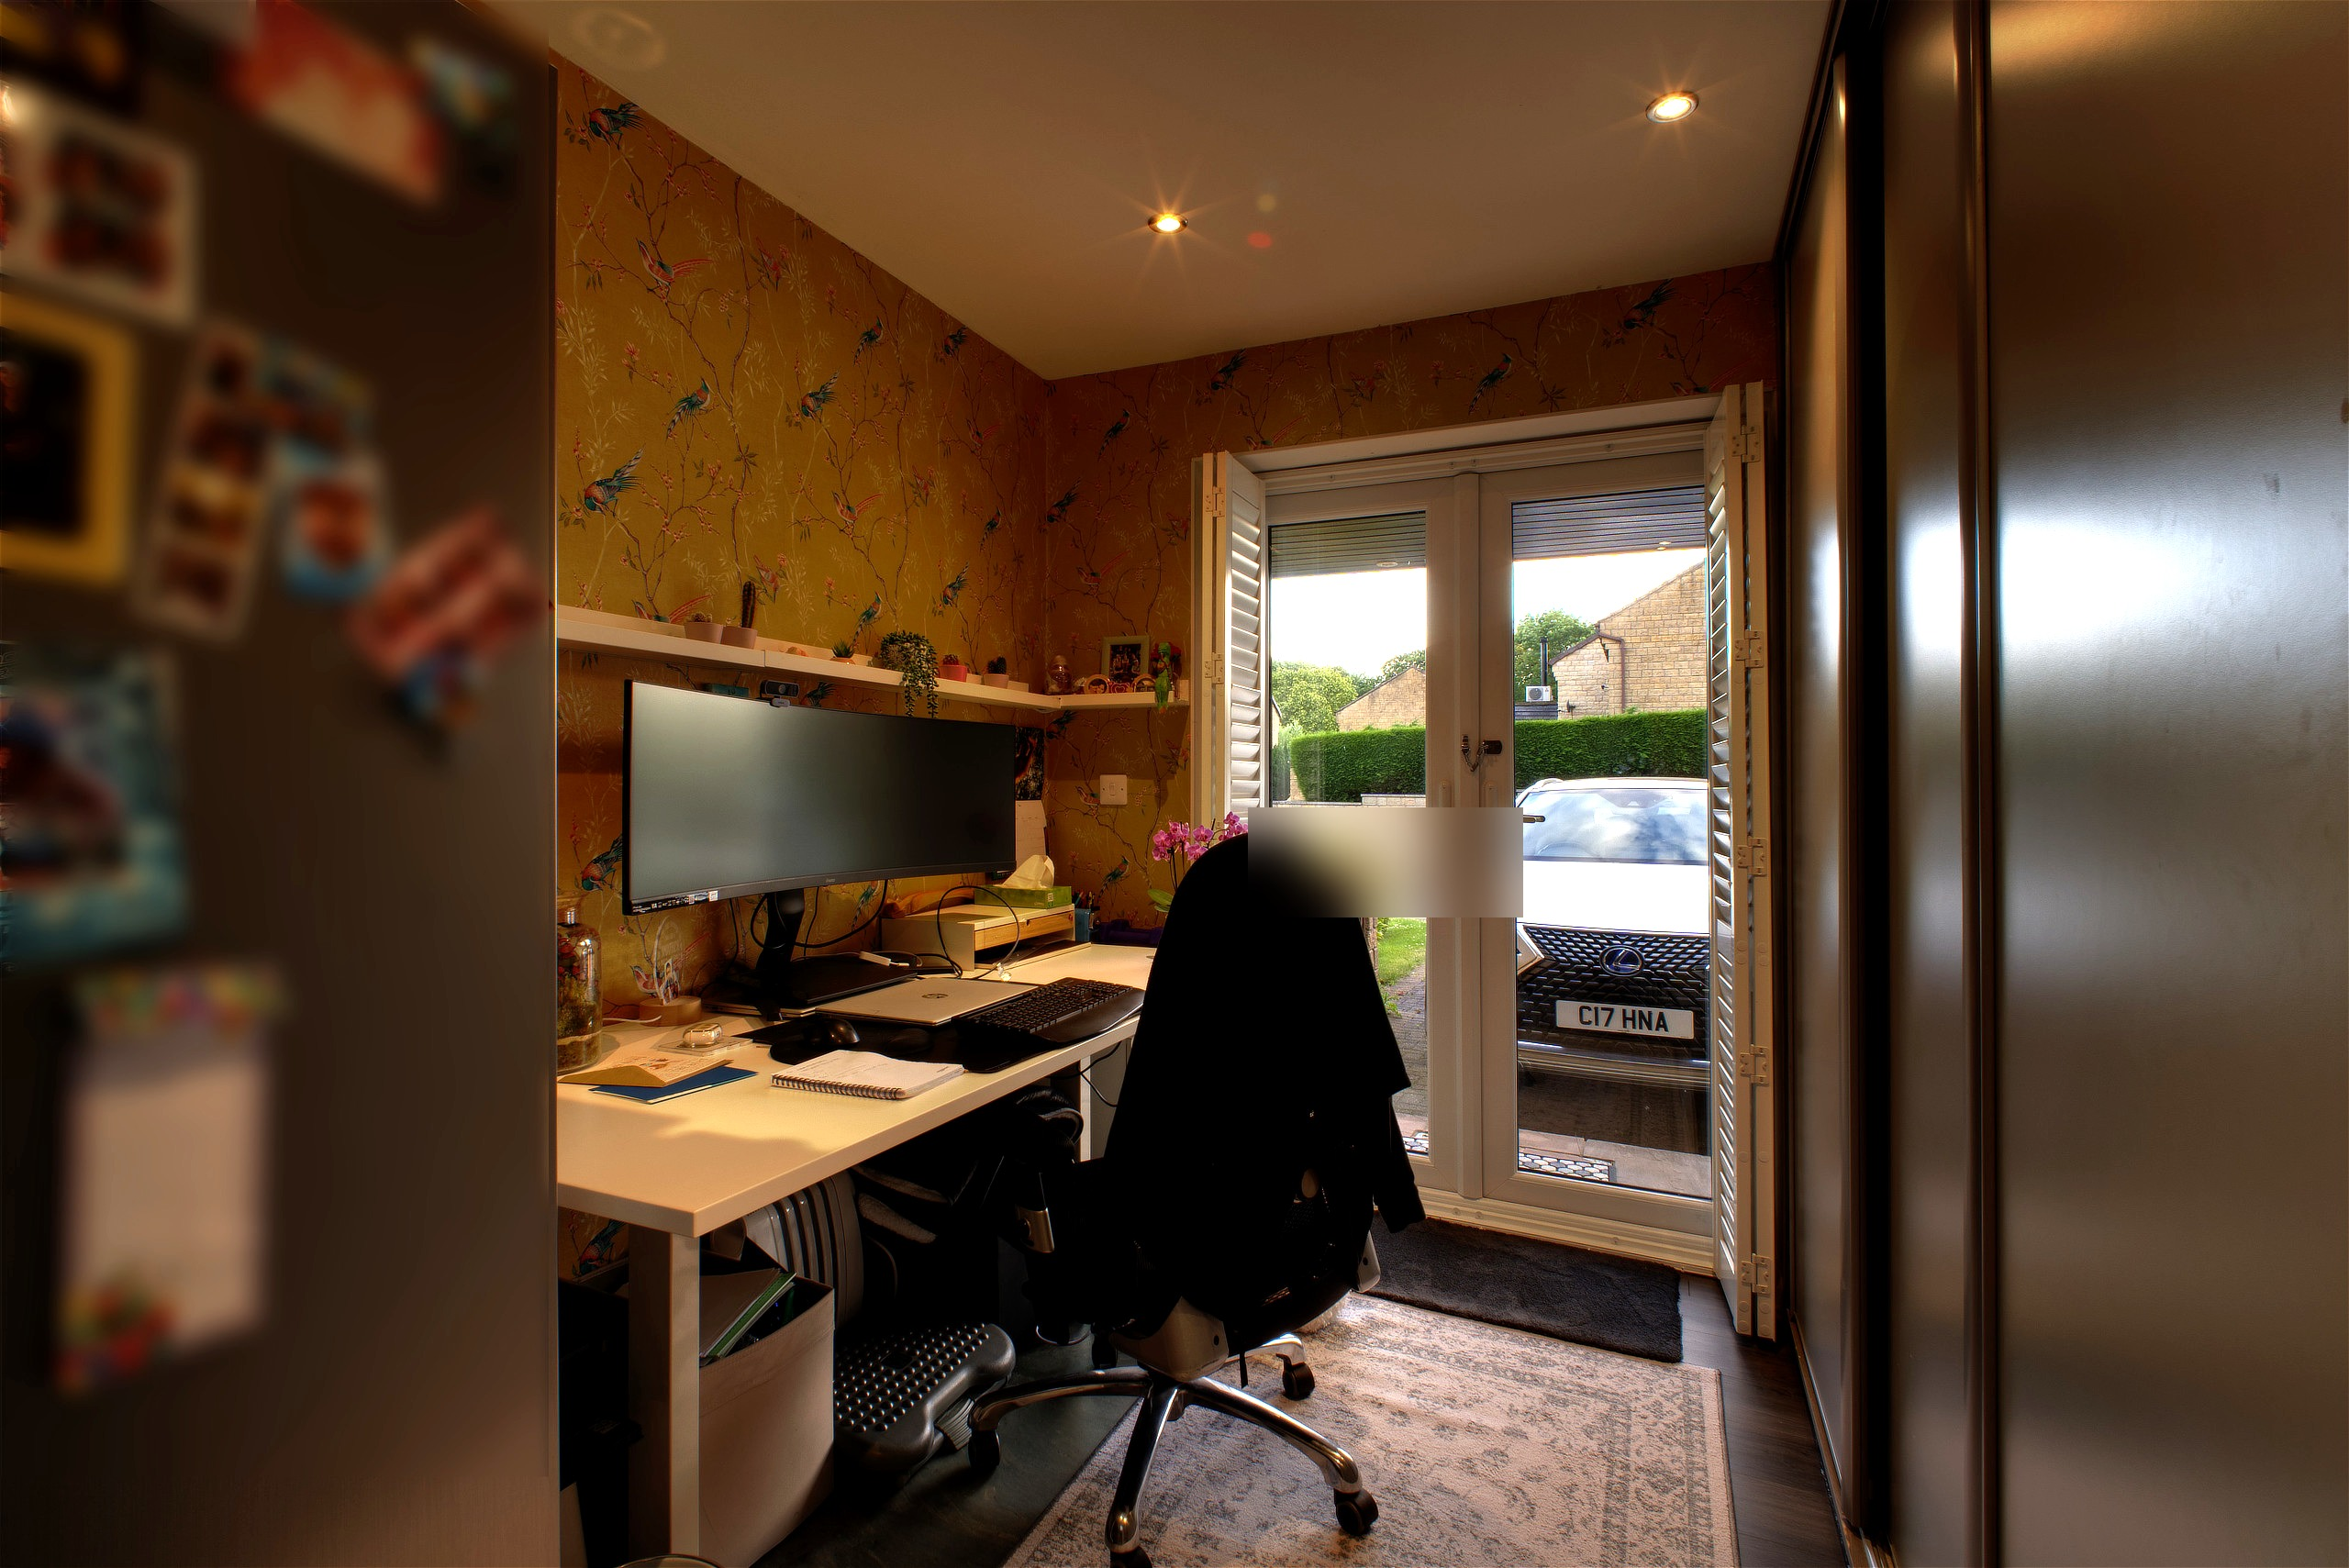
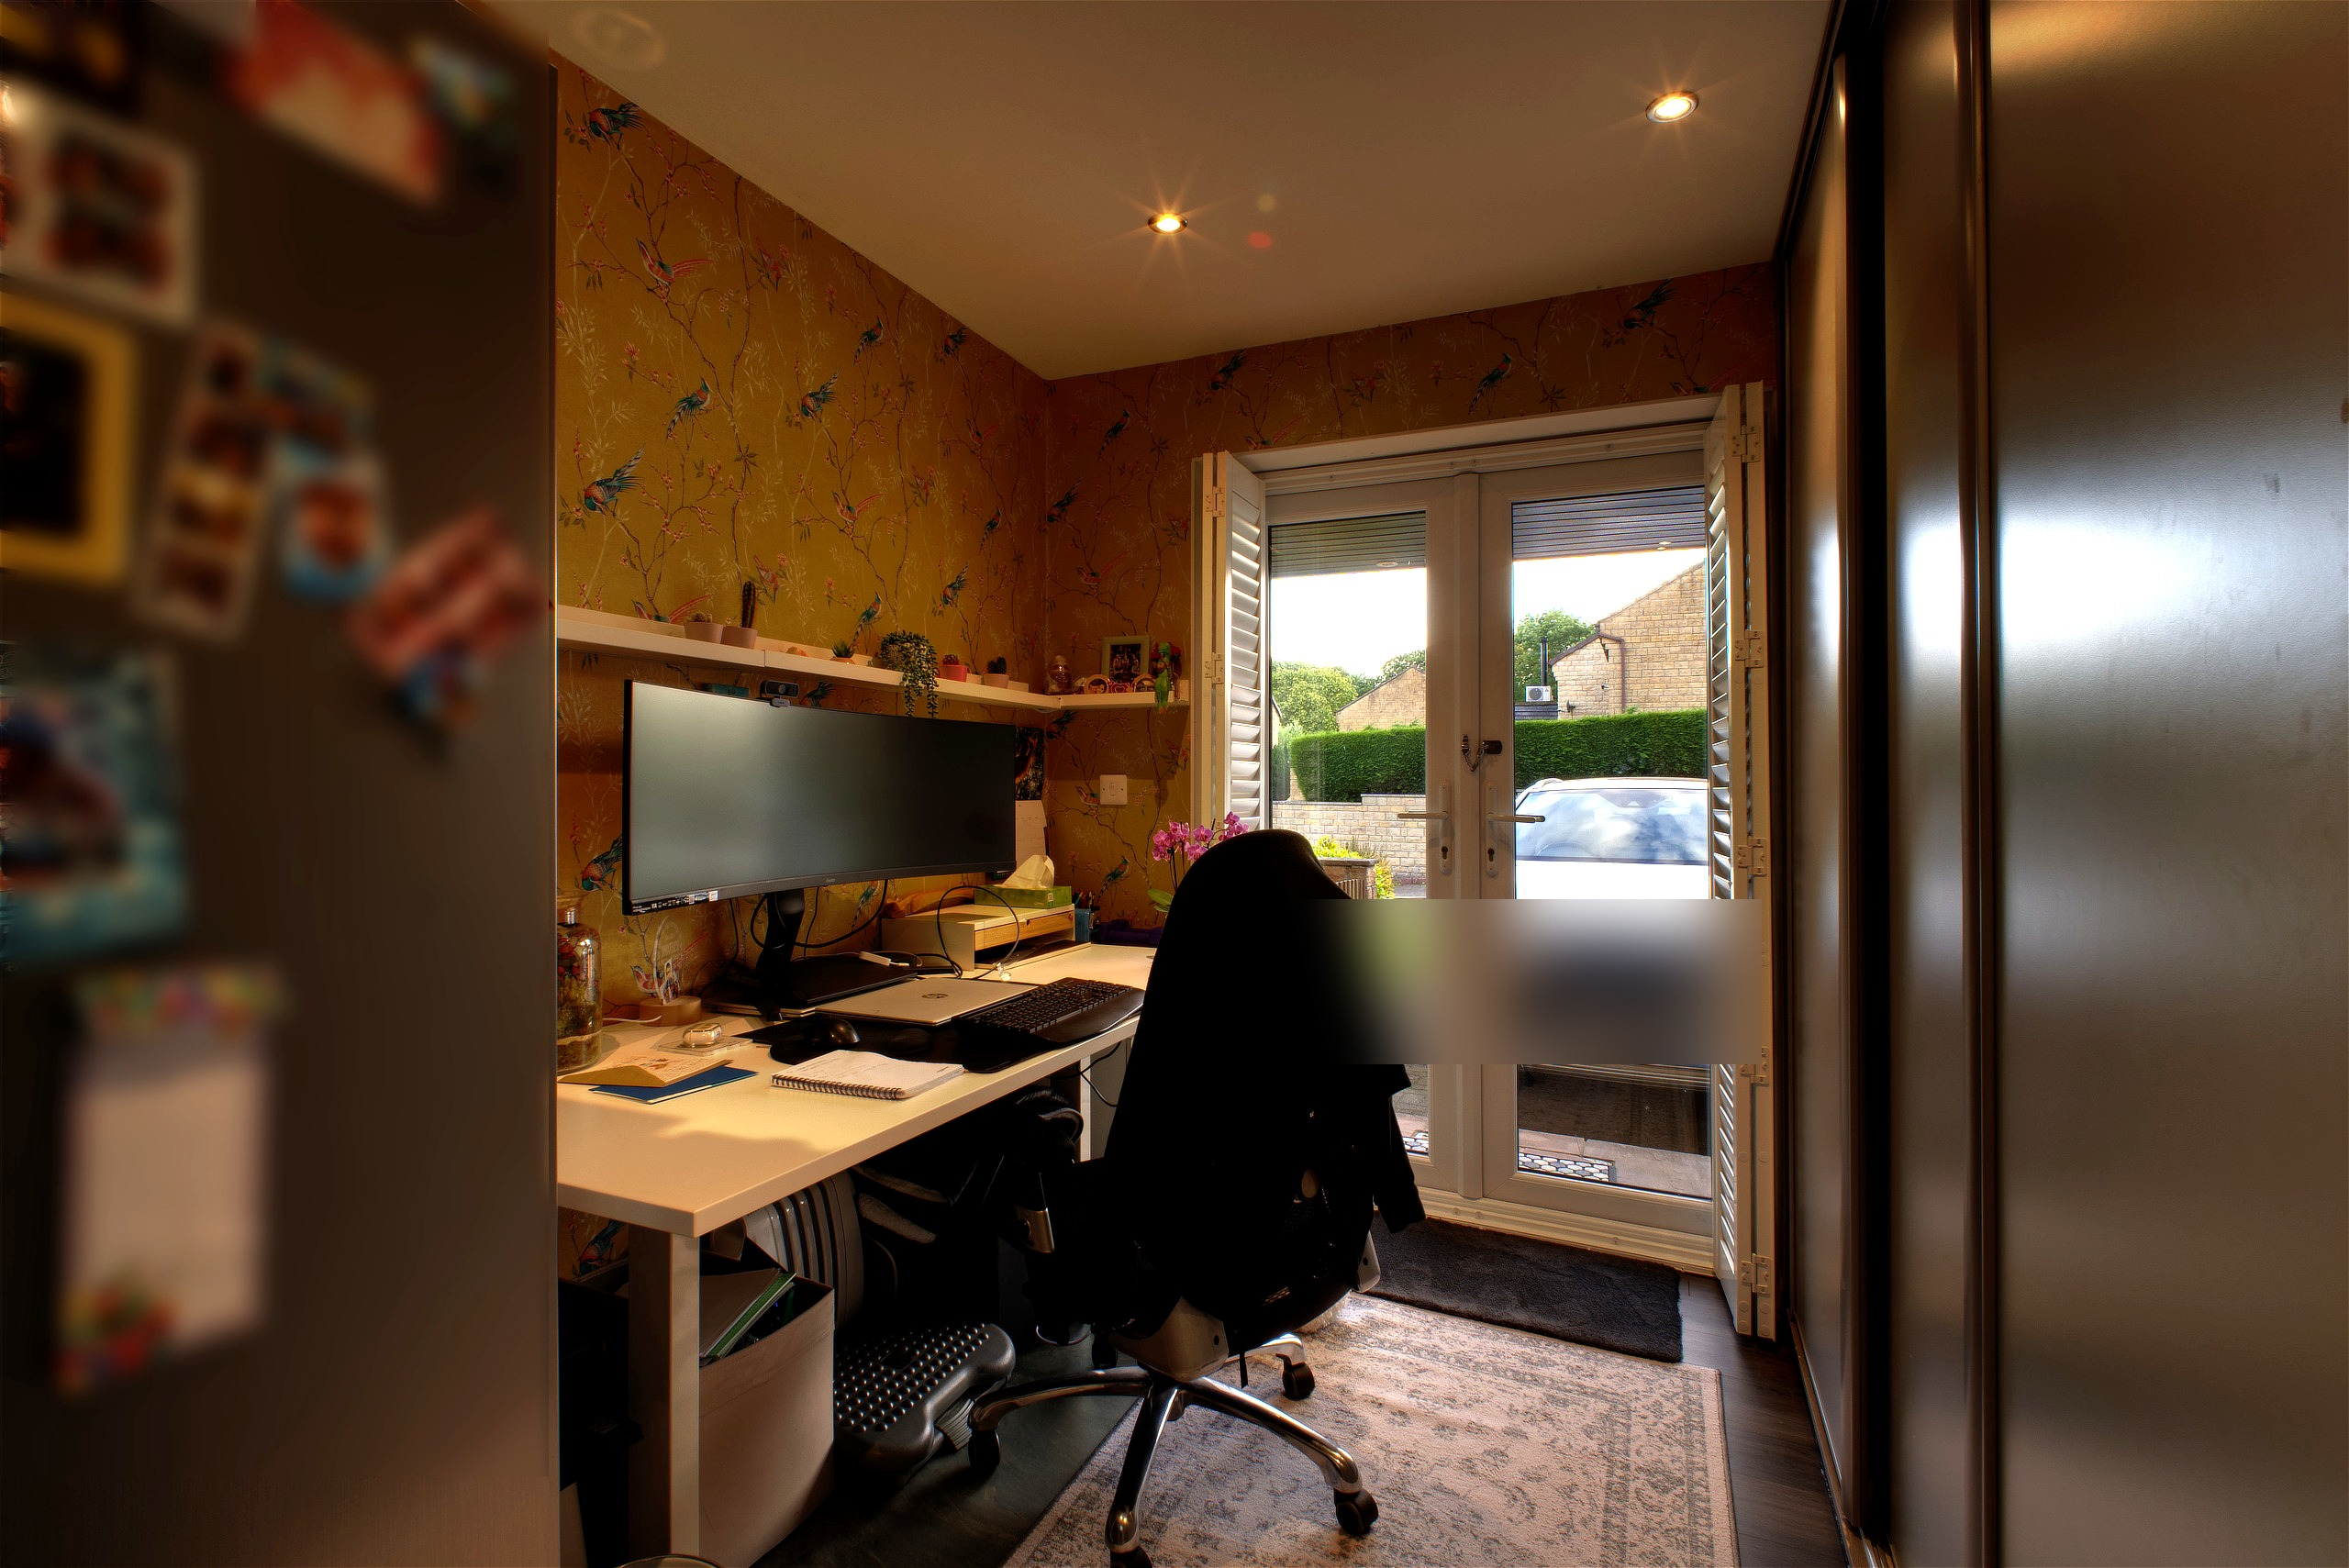
Fix plate blur, lightbox fullscreen with arrows, use local images

Changed region(s): [[0.5312, 0.4962, 0.75, 0.6823]]

diff --git a/index.html b/index.html
@@ -819,7 +819,7 @@ footer p{font-size:0.65rem;color:rgba(255,255,255,0.2);letter-spacing:0.05em;}
 /* ── LIGHTBOX ── */
 .lightbox{display:none;position:fixed;inset:0;z-index:1000;background:rgba(10,10,10,0.97);align-items:center;justify-content:center;padding:2rem;}
 .lightbox.open{display:flex;}
-.lightbox img{max-width:90vw;max-height:85vh;object-fit:contain;}
+.lightbox img{max-width:96vw;max-height:94vh;object-fit:contain;box-shadow:0 0 60px rgba(0,0,0,0.8);}
 .lb-close{position:absolute;top:1.5rem;right:1.5rem;background:none;border:none;color:rgba(255,255,255,0.5);font-size:2rem;cursor:pointer;transition:color 0.2s;line-height:1;}
 .lb-close:hover{color:var(--gold);}
 .lb-nav{position:absolute;top:50%;transform:translateY(-50%);background:none;border:none;color:rgba(255,255,255,0.3);font-size:2.5rem;cursor:pointer;transition:color 0.2s;padding:1rem;}
@@ -1807,7 +1807,7 @@ function playVideo(url){
 let lbIds=[],lbIdx=0;
 function openDriveLb(i,ids){
   lbIds=ids;lbIdx=i;
-  document.getElementById('lb-img').src=driveThumb(ids[i]);
+  document.getElementById('lb-img').src=driveImg(ids[i]);
   document.getElementById('lightbox').classList.add('open');
   document.body.style.overflow='hidden';
 }
@@ -1826,7 +1826,7 @@ document.addEventListener('DOMContentLoaded',()=>{
 });
 function lbNav(dir){
   lbIdx=(lbIdx+dir+lbIds.length)%lbIds.length;
-  document.getElementById('lb-img').src=driveThumb(lbIds[lbIdx]);
+  document.getElementById('lb-img').src=driveImg(lbIds[lbIdx]);
 }
 document.addEventListener('keydown',e=>{
   if(!document.getElementById('lightbox').classList.contains('open')) return;